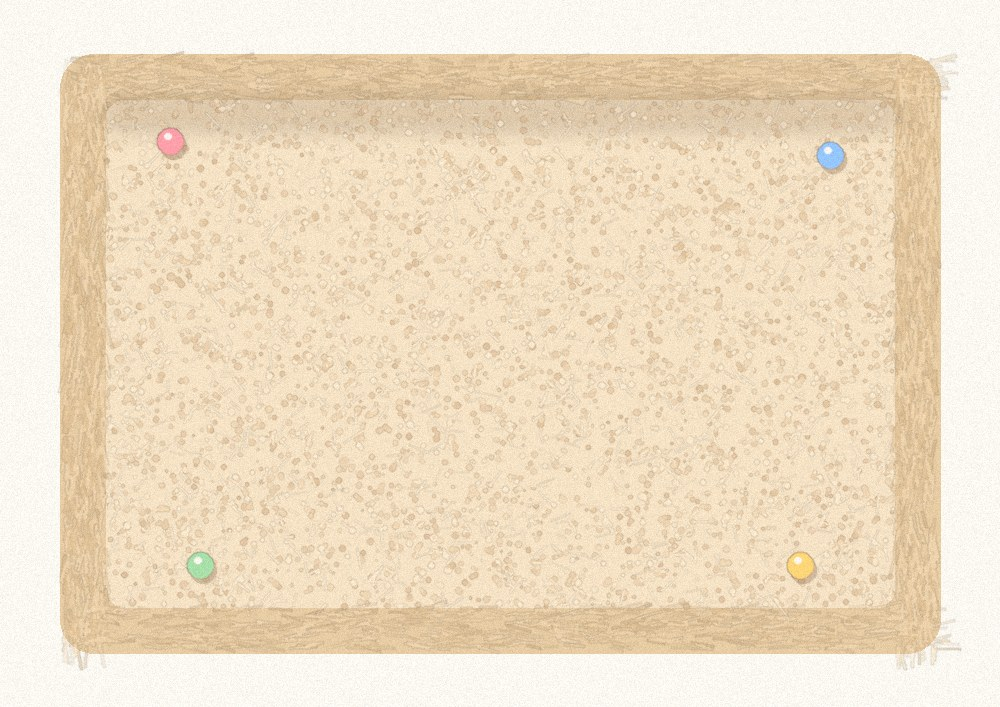
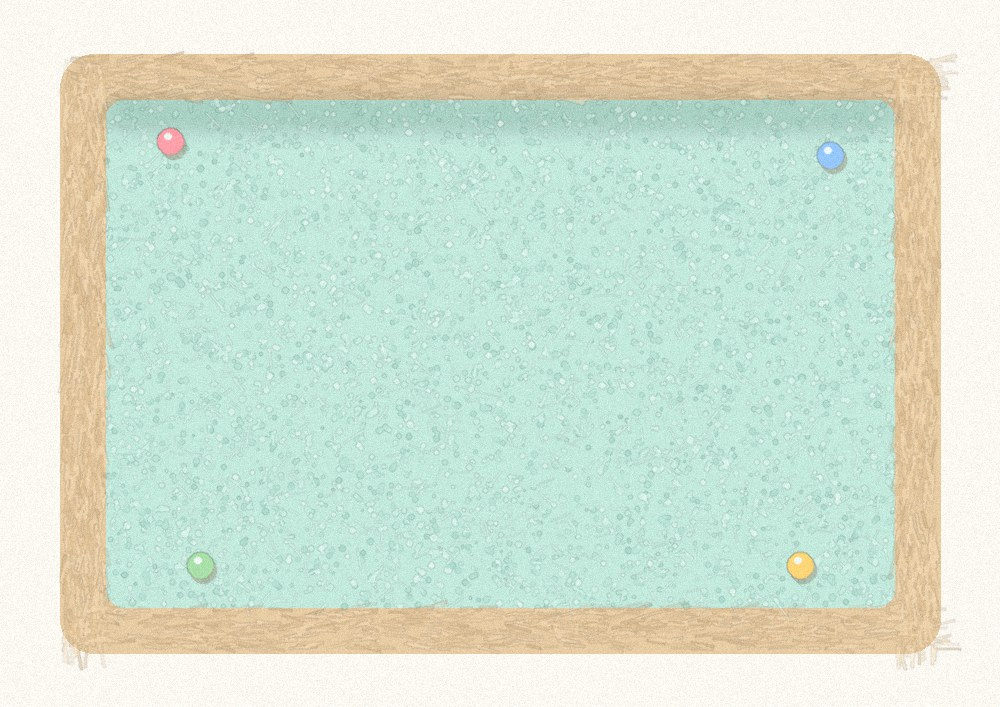
V6.0: 스티커 안내를 #4 5쪽 나레이션 아래로, 은하 느낌 젓기 전 스프 + 가운데 별, 민트 보드, 보드 나레이션
Claude-Session: https://claude.ai/code/session_01Nbh8N8c4tqUAvigBFfQUWv

diff --git a/storybook/js/story.js b/storybook/js/story.js
@@ -148,7 +148,7 @@
       image: 'assets/backgrounds/04-food-choice.jpg', alt: '맛있는 음식이 잔뜩 놓인 식탁에 앉은 주인공',
       // 음식 카드는 이 펼침면 앞의 '음식 고르기' 화면에서 고른다 (그림을 가리지 않게).
       // 이 펼침면에는 글과 고른 음식의 설명, 그리고 첫 쪽(5쪽)에 붙는 음식 스티커만 있다.
-      pages: [{ text: true, place: 'top', ink: 'dark', art: 'table' }, { widgets: ['food-result'], place: 'top', art: 'feast', artPos: 'bottom' }],
+      pages: [{ text: true, place: 'top', ink: 'dark', art: 'table', note: 'food-sticker' }, { widgets: ['food-result'], place: 'top', art: 'feast', artPos: 'bottom' }],
       requireMessage: '먹고 싶은 음식을 하나 골라 주세요.',
       text: function () { return [['자리에 앉아 앞을 바라보니 맛있는 음식들이 잔뜩 있어요.\n어떤 것부터 먹고 싶나요?']]; }
     },
@@ -177,7 +177,9 @@
         // 글은 그림 속 말풍선 몸통의 한가운데(쪽 기준 가로 59%, 세로 51%)에
         { bubble: { x: 0.34, y: 0.29, w: 0.5, h: 0.44, text: function (c) { return c.deed ? { text: '“' + c.deed + '”' } : { text: '나의 착한 일', empty: true }; } } },
         // 10쪽: 나에 대해 적는 보드 (tools/board_art.py). 착한 일 메모지·좋아하는 음식 메모지가 붙고, 그 위에 그림을 그린다
-        { image: 'assets/backgrounds/06-board.jpg', widgets: ['board-draw'] }
+        { image: 'assets/backgrounds/06-board.jpg', widgets: ['board-draw'], place: 'top', ink: 'dark', board: true,
+          text: function (c) { return [['요정이 '].concat(you(c), ['의 착한 일을 적어 보여주었어요.'])]; },
+          note: function () { return '보드를 마음껏 꾸며보세요.'; } }
       ],
       text: function () { return []; },
       // 펼침면 앞의 묻는 화면에 나오는 질문
@@ -257,8 +259,8 @@
     // 음식 스티커는 음식을 고른 다음 화면에 나타난다
     food: { x: 0.27, y: 0.7, w: 0.11, r: -6 },      // #4 첫 쪽(5쪽) 식탁 위
     serve: { x: 0.37, y: 0.66, w: 0.13, r: 5 },     // (예전) #7 11쪽 착한 일 종이
-    boardDeed: { x: 0.66, y: 0.44, w: 0.15, r: -4 },  // #6 10쪽 보드: 착한 일 메모지
-    boardFood: { x: 0.86, y: 0.56, w: 0.12, r: 5 }    // #6 10쪽 보드: 가장 좋아하는 음식 메모지
+    boardDeed: { x: 0.66, y: 0.56, w: 0.15, r: -4 },  // #6 10쪽 보드: 착한 일 메모지
+    boardFood: { x: 0.86, y: 0.6, w: 0.12, r: 5 }    // #6 10쪽 보드: 가장 좋아하는 음식 메모지
   };
 
   /* ---------- 임시 그림 (실제 삽화가 들어오기 전까지만 사용) ---------- */
@@ -411,7 +413,7 @@
   };
 
   window.StarSoup = {
-    version: '5.9',   // 게시할 때마다 0.1씩 올린다 (index.html의 ?v= 와 맞춘다)
+    version: '6.0',   // 게시할 때마다 0.1씩 올린다 (index.html의 ?v= 와 맞춘다)
     cover: cover,
     acts: acts,
     foods: foods,

diff --git a/storybook/js/main.js b/storybook/js/main.js
@@ -396,7 +396,10 @@
         var body = typeof p.text === 'function' ? p.text(c) : scene.text(c);
       }
       if (p.text && body) {
-        var block = el('div', { class: 'pg-text is-panel' + (p.ink === 'dark' ? ' is-ink' : '') + (p.narrow ? ' is-narrow' : '') }, eyebrow(scene, index, p), paragraphs(body));
+        var block = el('div', { class: 'pg-text is-panel' + (p.ink === 'dark' ? ' is-ink' : '') + (p.narrow ? ' is-narrow' : '') + (p.board ? ' is-over-pad' : '') }, eyebrow(scene, index, p), paragraphs(body));
+        // 나레이션 아래 작은 안내 (#4 5쪽: 스티커 붙이기, #6 10쪽: 보드 꾸미기)
+        var noteText = p.note === 'food-sticker' ? (c.food ? foodStickerHint() : '') : typeof p.note === 'function' ? p.note(c) : '';
+        if (noteText) block.append(el('p', { class: 'hint pg-note' + (p.note === 'food-sticker' ? ' sticker-hint' : ''), text: noteText }));
         pg.append(block);
       }
       if (p.nameplate) page.append(nameplateInput(leaf, p.nameplate));
@@ -484,7 +487,7 @@
     switch (name) {
       case 'food-result': return foodResult(c);
       case 'board-draw': return drawPad(leaf, { key: IMG_BOARD, title: '보드에 그림 그리기', clear: true,
-        tip: '메모지를 끌어 옮기고 노란 손잡이로 크기를 바꿔요. 빈 곳에는 그림을 그릴 수 있어요.' });
+        tip: '메모지는 끌어서 옮기고, 노란 손잡이로 크기를 바꿀 수 있어요.' });
       case 'deed-hint': return images[IMG_DEED]
         ? el('p', { class: 'hint sticker-hint pg-hint' }, '꾸민 착한 일 종이를 끌어서 원하는 곳에 옮겨 보세요.')
         : null;
@@ -594,7 +597,7 @@
     return el('div', { class: 'pg-text is-panel reveal' + (f ? '' : ' is-empty'), 'aria-live': 'polite' },
       el('p', { class: 'eyebrow', text: f ? '한입 냠, ' + f.name : '음식을 고르면' }),
       el('p', { class: 'story story--sm', text: f ? f.desc : '아직 먹고 싶은 음식을 고르지 않았어요.' }),
-      f ? el('p', { class: 'hint sticker-hint', text: foodStickerHint() })
+      f ? null
         : el('button', { type: 'button', class: 'btn btn-soft btn-small', text: '음식 고르러 가기', onclick: function () { showAsk('food', -1); } }));
   }
 
@@ -786,7 +789,7 @@
         inline: host, dock: dock, aspect: 297 / 210, title: o.title, base: images[o.key], clear: o.clear,
         onChange: function (data) { saveImage(o.key, data); }
       });
-      if (o.tip) setTimeout(function () { if (host.isConnected) toast(o.tip, 4200); }, 400);
+      if (o.tip) setTimeout(function () { if (host.isConnected) toast(o.tip, 3600); }, 400);
     };
     // 쪽이 화면에 붙은 뒤에 그림판을 옮겨 온다 (한 쪽씩 보기에서는 16쪽을 볼 때만)
     var visible = function () { return mode === 'spread' || state.page === 1; };

diff --git a/storybook/index.html b/storybook/index.html
@@ -8,8 +8,8 @@
 <link rel="preconnect" href="https://fonts.googleapis.com">
 <link rel="preconnect" href="https://fonts.gstatic.com" crossorigin>
 <link rel="stylesheet" href="https://fonts.googleapis.com/css2?family=Gowun+Dodum&family=Jua&display=swap">
-<link rel="stylesheet" href="css/style.css?v=5.9">
-<link rel="stylesheet" href="css/editor.css?v=5.9">
+<link rel="stylesheet" href="css/style.css?v=6.0">
+<link rel="stylesheet" href="css/editor.css?v=6.0">
 </head>
 <body>
 <div class="app" id="app" data-screen="cover">
@@ -218,10 +218,10 @@
   </div>
 </div>
 
-<script src="js/storage.js?v=5.9"></script>
-<script src="js/story.js?v=5.9"></script>
-<script src="js/drawing.js?v=5.9"></script>
-<script src="js/weather.js?v=5.9"></script>
-<script src="js/main.js?v=5.9"></script>
+<script src="js/storage.js?v=6.0"></script>
+<script src="js/story.js?v=6.0"></script>
+<script src="js/drawing.js?v=6.0"></script>
+<script src="js/weather.js?v=6.0"></script>
+<script src="js/main.js?v=6.0"></script>
 </body>
 </html>

diff --git a/storybook/css/style.css b/storybook/css/style.css
@@ -1500,3 +1500,12 @@ button, .tile, .chip { touch-action: manipulation; }   /* 두 번 탭 확대와 
 .memo-text { font-family: var(--font-display); font-size: calc(var(--w) * 11cqw); line-height: 1.35; }
 .paper-body figcaption { font-size: calc(var(--w, 0.15) * 10cqw); }
 .sticker--paper.is-selected .st-handle { display: grid; }
+
+/* 나레이션 아래 작은 안내 */
+.pg-note { margin: 0; font-size: max(10px, 3cqh); opacity: 0.85; }
+/* #6 10쪽: 그림판 위에 떠 있는 나레이션 (터치는 아래 그림판으로) */
+.pg-text.is-over-pad { z-index: 5; pointer-events: none; align-self: flex-start; }
+.memo-body--food { background: #ffe1d8; }
+.memo-body--food .memo-head { color: #c0624a; }
+.has-image .pg-text.is-ink .pg-note { color: #7a5a38; opacity: 1; }
+.pg-text:not(.is-ink) .pg-note { color: var(--milk); opacity: 0.85; }

diff --git a/storybook/tools/soup_raw.py b/storybook/tools/soup_raw.py
@@ -1,5 +1,5 @@
-"""별빛스프 젓기 전 모습: #7 삽화처럼 파스텔 크레용 결의 푸른 스프 위에 별 모양 건더기가 동동.
-위에서 본 그릇 안쪽 원(지름 660)만 그린 투명 PNG. 저을수록 옅어져 아래의 금빛 스프가 드러난다.
+"""별빛스프 젓기 전 모습: 은하수처럼 소용돌이치는 푸른 스프 (파스텔 페리윙클·라일락·민트) + 한가운데 별 하나.
+위에서 본 그릇 안쪽 원만 그린 투명 PNG. 저을수록 옅어져 아래의 금빛 스프가 드러난다.
 사용: python3 soup_raw.py 저장할_폴더"""
 import sys, math, random
 import numpy as np
@@ -7,57 +7,53 @@ from PIL import Image, ImageDraw, ImageFilter
 
 S = 660
 rng = random.Random(11)
-img = Image.new('RGBA', (S, S), (0, 0, 0, 0))
+yy, xx = np.mgrid[0:S, 0:S].astype(float)
+cx = cy = S / 2
+dx, dy = xx - cx, yy - cy
+r = np.hypot(dx, dy) / (S / 2)
+th = np.arctan2(dy, dx)
 
-def layer():
-    return Image.new('RGBA', (S, S), (0, 0, 0, 0))
+# 바탕: 가운데 밝은 페리윙클 → 가장자리 짙은 블루 바이올렛 (예전 은하빛 그러데이션, 색만 파스텔로)
+c0, c1, c2 = np.array([206, 214, 252]), np.array([150, 160, 232]), np.array([112, 112, 200])
+t1 = np.clip(r / 0.5, 0, 1)[..., None]; t2 = np.clip((r - 0.5) / 0.5, 0, 1)[..., None]
+col = np.where(r[..., None] < 0.5, c0 * (1 - t1) + c1 * t1, c1 * (1 - t2) + c2 * t2)
+# 은하 소용돌이 띠: 라일락·민트·하늘빛이 각도를 따라 번갈아 (나선으로 감김)
+spiral = th + r * 4.2
+w1 = (np.sin(spiral * 2) * 0.5 + 0.5) ** 2
+w2 = (np.sin(spiral * 2 + 2.1) * 0.5 + 0.5) ** 2
+w3 = (np.sin(spiral * 2 + 4.2) * 0.5 + 0.5) ** 2
+fade = np.clip(1 - r, 0, 1)[..., None] * 0.5 + 0.3
+lilac, mint, sky = np.array([216, 190, 250]), np.array([190, 240, 228]), np.array([226, 236, 255])
+col = col * (1 - fade * 0.95) + fade * 0.95 * (lilac * w1[..., None] + mint * w2[..., None] + sky * w3[..., None]) / np.maximum((w1 + w2 + w3)[..., None], 1e-3)
+img = Image.fromarray(np.clip(col, 0, 255).astype('uint8'), 'RGB').convert("RGBA").filter(ImageFilter.GaussianBlur(3))
 
-# 바탕: 파스텔 페리윙클 블루, 가운데가 조금 밝게
-yy, xx = np.mgrid[0:S, 0:S]
-d = np.hypot(xx - S * 0.46, yy - S * 0.42) / (S * 0.6)
-col = np.stack([196 - 30 * d, 206 - 26 * d, 248 - 14 * d], -1).clip(0, 255)
-base = Image.fromarray(col.astype('uint8'), 'RGB').convert('RGBA')
-img.alpha_composite(base)
+# 작은 별빛 점들 (예전처럼 하얀 점)
+dots = Image.new('RGBA', (S, S), (0, 0, 0, 0)); dd = ImageDraw.Draw(dots)
+for i in range(70):
+    a = rng.uniform(0, math.tau); rr = rng.uniform(0.08, 0.95) * S / 2
+    x, y = cx + math.cos(a) * rr, cy + math.sin(a) * rr; s2 = rng.uniform(1.4, 3.4)
+    dd.ellipse((x - s2, y - s2, x + s2, y + s2), fill=(255, 255, 255, rng.randint(150, 240)))
+img.alpha_composite(dots.filter(ImageFilter.GaussianBlur(0.4)))
 
-# 크레용 결: 밝은 하늘색·라일락·민트 짧은 선을 비스듬히 잔뜩
-cr = layer(); cd = ImageDraw.Draw(cr)
-palette = [(232, 240, 255), (210, 196, 246), (196, 236, 230), (176, 190, 240), (248, 226, 246)]
-for i in range(5200):
-    x, y = rng.uniform(0, S), rng.uniform(0, S)
-    l = rng.uniform(8, 26); a = -0.75 + rng.gauss(0, 0.18)
-    c = palette[i % len(palette)]
-    cd.line((x, y, x + math.cos(a) * l, y + math.sin(a) * l), fill=c + (rng.randint(60, 150),), width=2)
-img.alpha_composite(cr.filter(ImageFilter.GaussianBlur(0.7)))
-
-# 별 모양 건더기 (#7의 노랑·분홍 파스텔 별): 크레용으로 칠한 듯 가장자리가 부드럽게
+# 한가운데 별 하나 (지난번 별과 같은 크기·모양)
 def star(cx, cy, r, inner, rot):
     return [(cx + (r if k % 2 == 0 else r * inner) * math.cos(math.radians(rot + k * 36)),
              cy + (r if k % 2 == 0 else r * inner) * math.sin(math.radians(rot + k * 36))) for k in range(10)]
-stars = layer(); sd = ImageDraw.Draw(stars)
-spots = [(0.30, 0.30), (0.64, 0.27), (0.74, 0.58), (0.44, 0.60), (0.22, 0.60), (0.54, 0.84), (0.30, 0.82)]
-for i, (u, v) in enumerate(spots):
-    cx, cy, r = u * S, v * S, rng.uniform(60, 86)
-    rot = rng.uniform(-110, -70)
-    sd.polygon(star(cx + 6, cy + 8, r, 0.5, rot), fill=(150, 150, 210, 90))                    # 그림자
-    sd.polygon(star(cx, cy, r, 0.5, rot), fill=(255, 234, 150, 255))
-    sd.polygon(star(cx - r * 0.12, cy - r * 0.12, r * 0.55, 0.5, rot), fill=(255, 246, 196, 230))  # 밝은 가운데
-    for k in range(70):                                                                       # 분홍 크레용 결
-        a = rng.uniform(0, math.tau); rr = rng.uniform(0, r * 0.5)
-        x, y = cx + math.cos(a) * rr, cy + math.sin(a) * rr
-        sd.line((x, y, x + 9, y - 6), fill=(250, 186, 206, rng.randint(40, 120)), width=2)
-img.alpha_composite(stars.filter(ImageFilter.GaussianBlur(3)))
+st = Image.new('RGBA', (S, S), (0, 0, 0, 0)); sd = ImageDraw.Draw(st)
+R0, rot = 72, -90
+sd.polygon(star(cx + 6, cy + 8, R0, 0.5, rot), fill=(150, 150, 210, 90))
+sd.polygon(star(cx, cy, R0, 0.5, rot), fill=(255, 234, 150, 255))
+sd.polygon(star(cx - R0 * 0.12, cy - R0 * 0.12, R0 * 0.55, 0.5, rot), fill=(255, 246, 196, 230))
+for k in range(70):
+    a = rng.uniform(0, math.tau); rr = rng.uniform(0, R0 * 0.5)
+    x, y = cx + math.cos(a) * rr, cy + math.sin(a) * rr
+    sd.line((x, y, x + 9, y - 6), fill=(250, 186, 206, rng.randint(40, 120)), width=2)
+img.alpha_composite(st.filter(ImageFilter.GaussianBlur(3)))
 
-# 반짝이 점
-sp = layer(); spd = ImageDraw.Draw(sp)
-for i in range(50):
-    x, y = rng.uniform(0, S), rng.uniform(0, S); s2 = rng.uniform(1.5, 3.5)
-    spd.ellipse((x - s2, y - s2, x + s2, y + s2), fill=(255, 255, 255, rng.randint(150, 230)))
-img.alpha_composite(sp)
-
-# 원으로 오려 내기 (가장자리는 살짝 어둡게, 부드럽게)
+# 원으로 오려 내기 + 가장자리 안쪽 그늘
+edge = Image.new('RGBA', (S, S), (0, 0, 0, 0)); ImageDraw.Draw(edge).ellipse((0, 0, S - 1, S - 1), outline=(90, 90, 170, 130), width=16)
+img.alpha_composite(edge.filter(ImageFilter.GaussianBlur(9)))
 mask = Image.new('L', (S, S), 0); ImageDraw.Draw(mask).ellipse((2, 2, S - 3, S - 3), fill=255)
-edge = layer(); ImageDraw.Draw(edge).ellipse((0, 0, S - 1, S - 1), outline=(120, 120, 190, 120), width=14)
-img.alpha_composite(edge.filter(ImageFilter.GaussianBlur(8)))
 img.putalpha(mask.filter(ImageFilter.GaussianBlur(1)))
 p = sys.argv[1].rstrip('/') + '/08-soup-raw.png'
 img.resize((480, 480), Image.LANCZOS).save(p, optimize=True)

diff --git a/storybook/tools/board_art.py b/storybook/tools/board_art.py
@@ -12,14 +12,14 @@ def layer(): return Image.new('RGBA', (W, H), (0, 0, 0, 0))
 # 벽: 삽화의 흰 종이처럼 밝은 크림
 img = Image.new('RGBA', (W, H), (252, 249, 242, 255))
 
-# 보드 틀(연한 나무색) + 코르크 판(파스텔 살구)
+# 보드 틀(연한 나무색) + 안쪽 판(파스텔 민트)
 F = 46
 frame = layer(); fd = ImageDraw.Draw(frame)
 fd.rounded_rectangle((60, 54, W - 60, H - 54), radius=34, fill=(232, 204, 164, 255))
-fd.rounded_rectangle((60 + F, 54 + F, W - 60 - F, H - 54 - F), radius=18, fill=(246, 226, 196, 255))
+fd.rounded_rectangle((60 + F, 54 + F, W - 60 - F, H - 54 - F), radius=18, fill=(196, 234, 222, 255))
 img.alpha_composite(frame)
 # 판 그림자(위쪽 안쪽)
-sh = layer(); ImageDraw.Draw(sh).rounded_rectangle((60 + F, 54 + F, W - 60 - F, 54 + F + 26), radius=12, fill=(180, 140, 100, 70))
+sh = layer(); ImageDraw.Draw(sh).rounded_rectangle((60 + F, 54 + F, W - 60 - F, 54 + F + 26), radius=12, fill=(90, 150, 130, 70))
 img.alpha_composite(sh.filter(ImageFilter.GaussianBlur(10)))
 
 # 코르크 결: 작은 점과 짧은 크레용 선
@@ -27,11 +27,11 @@ cork = layer(); cd = ImageDraw.Draw(cork)
 x0, y0, x1, y1 = 60 + F, 54 + F, W - 60 - F, H - 54 - F
 for i in range(4200):
     x, y = rng.uniform(x0, x1), rng.uniform(y0, y1); s = rng.uniform(1, 3.2)
-    c = rng.choice([(214, 176, 132), (236, 206, 166), (255, 240, 214), (226, 190, 150)])
+    c = rng.choice([(160, 210, 196), (210, 242, 232), (240, 252, 248), (176, 222, 208)])
     cd.ellipse((x - s, y - s, x + s, y + s), fill=c + (rng.randint(70, 160),))
 for i in range(900):
     x, y = rng.uniform(x0, x1), rng.uniform(y0, y1); l = rng.uniform(8, 22); a = rng.uniform(0, math.pi)
-    cd.line((x, y, x + math.cos(a) * l, y + math.sin(a) * l), fill=(255, 246, 228, rng.randint(50, 110)), width=2)
+    cd.line((x, y, x + math.cos(a) * l, y + math.sin(a) * l), fill=(236, 252, 246, rng.randint(50, 110)), width=2)
 img.alpha_composite(cork.filter(ImageFilter.GaussianBlur(0.5)))
 
 # 틀 크레용 결
